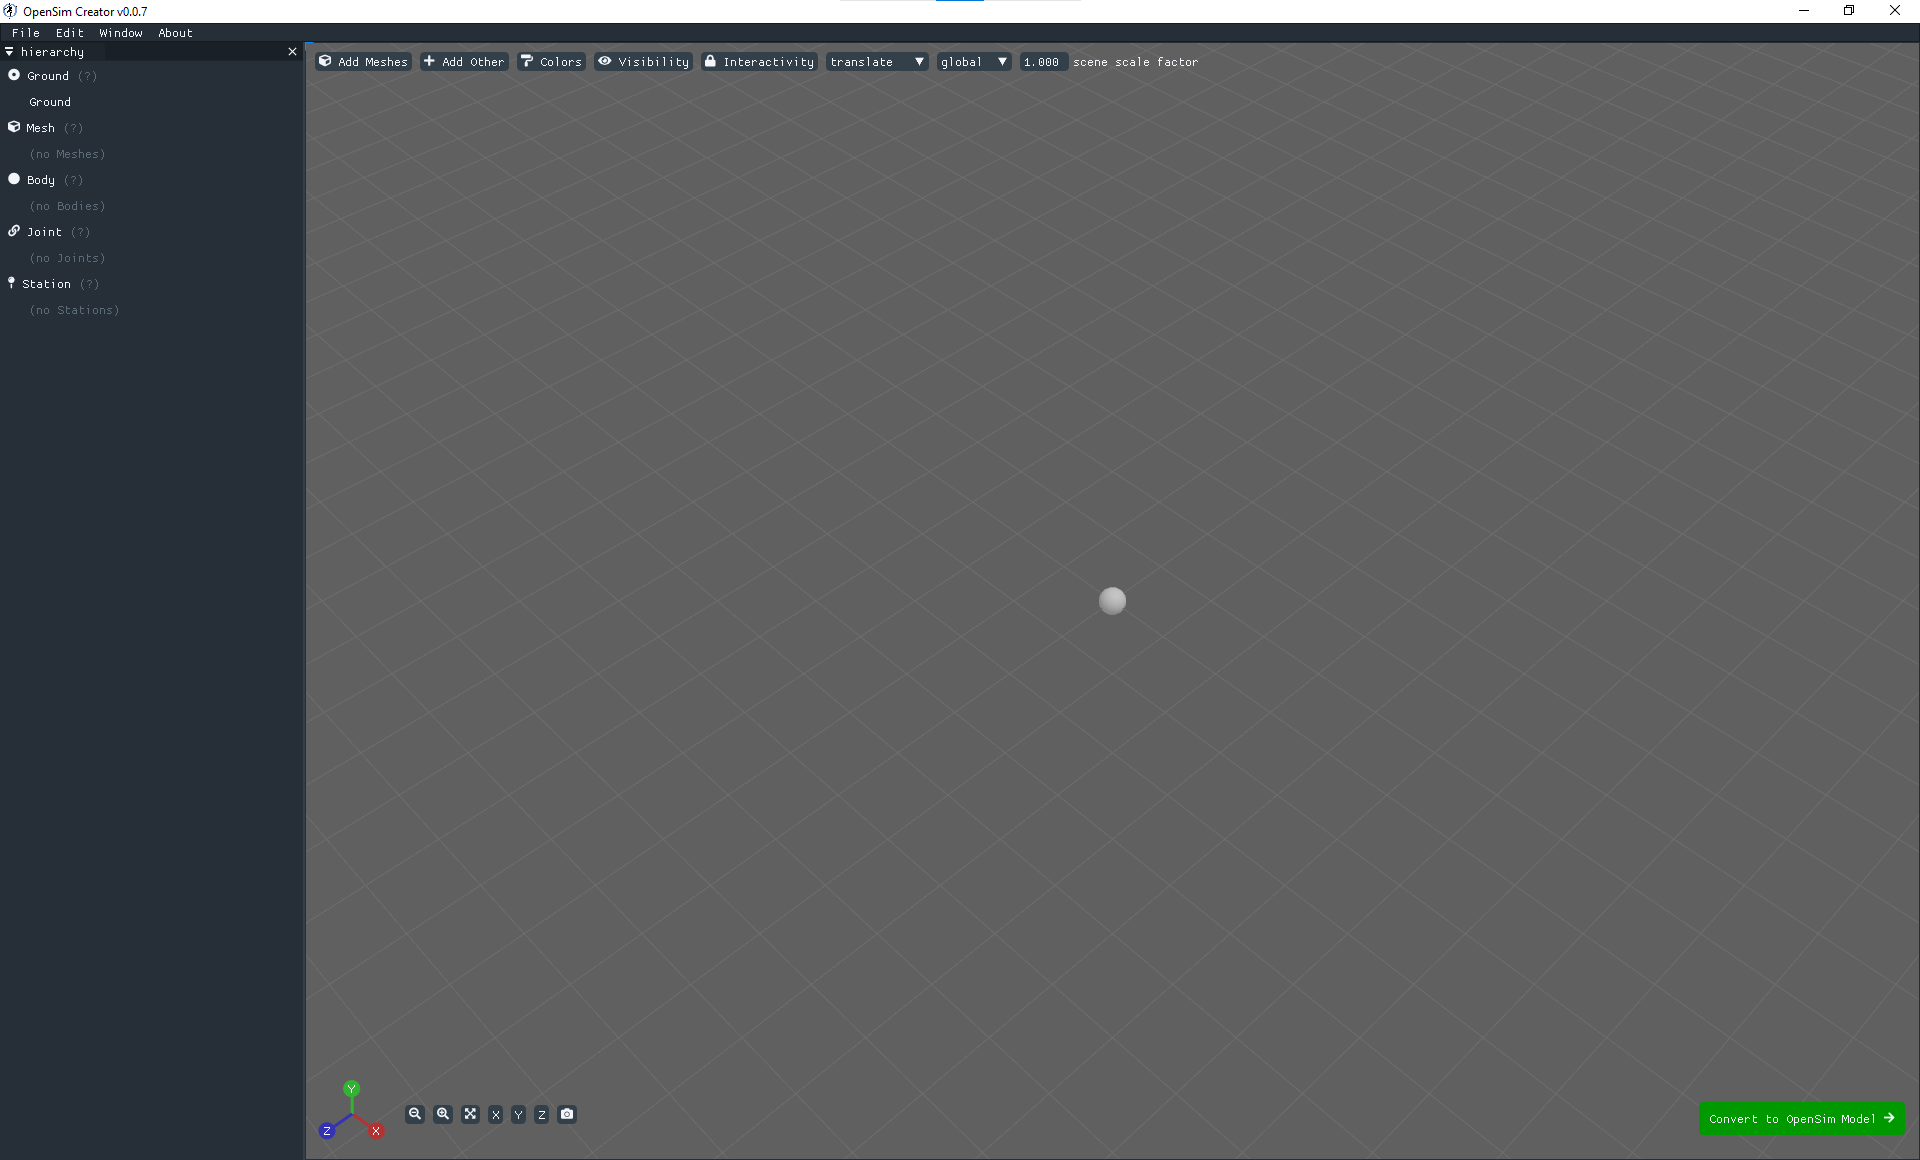
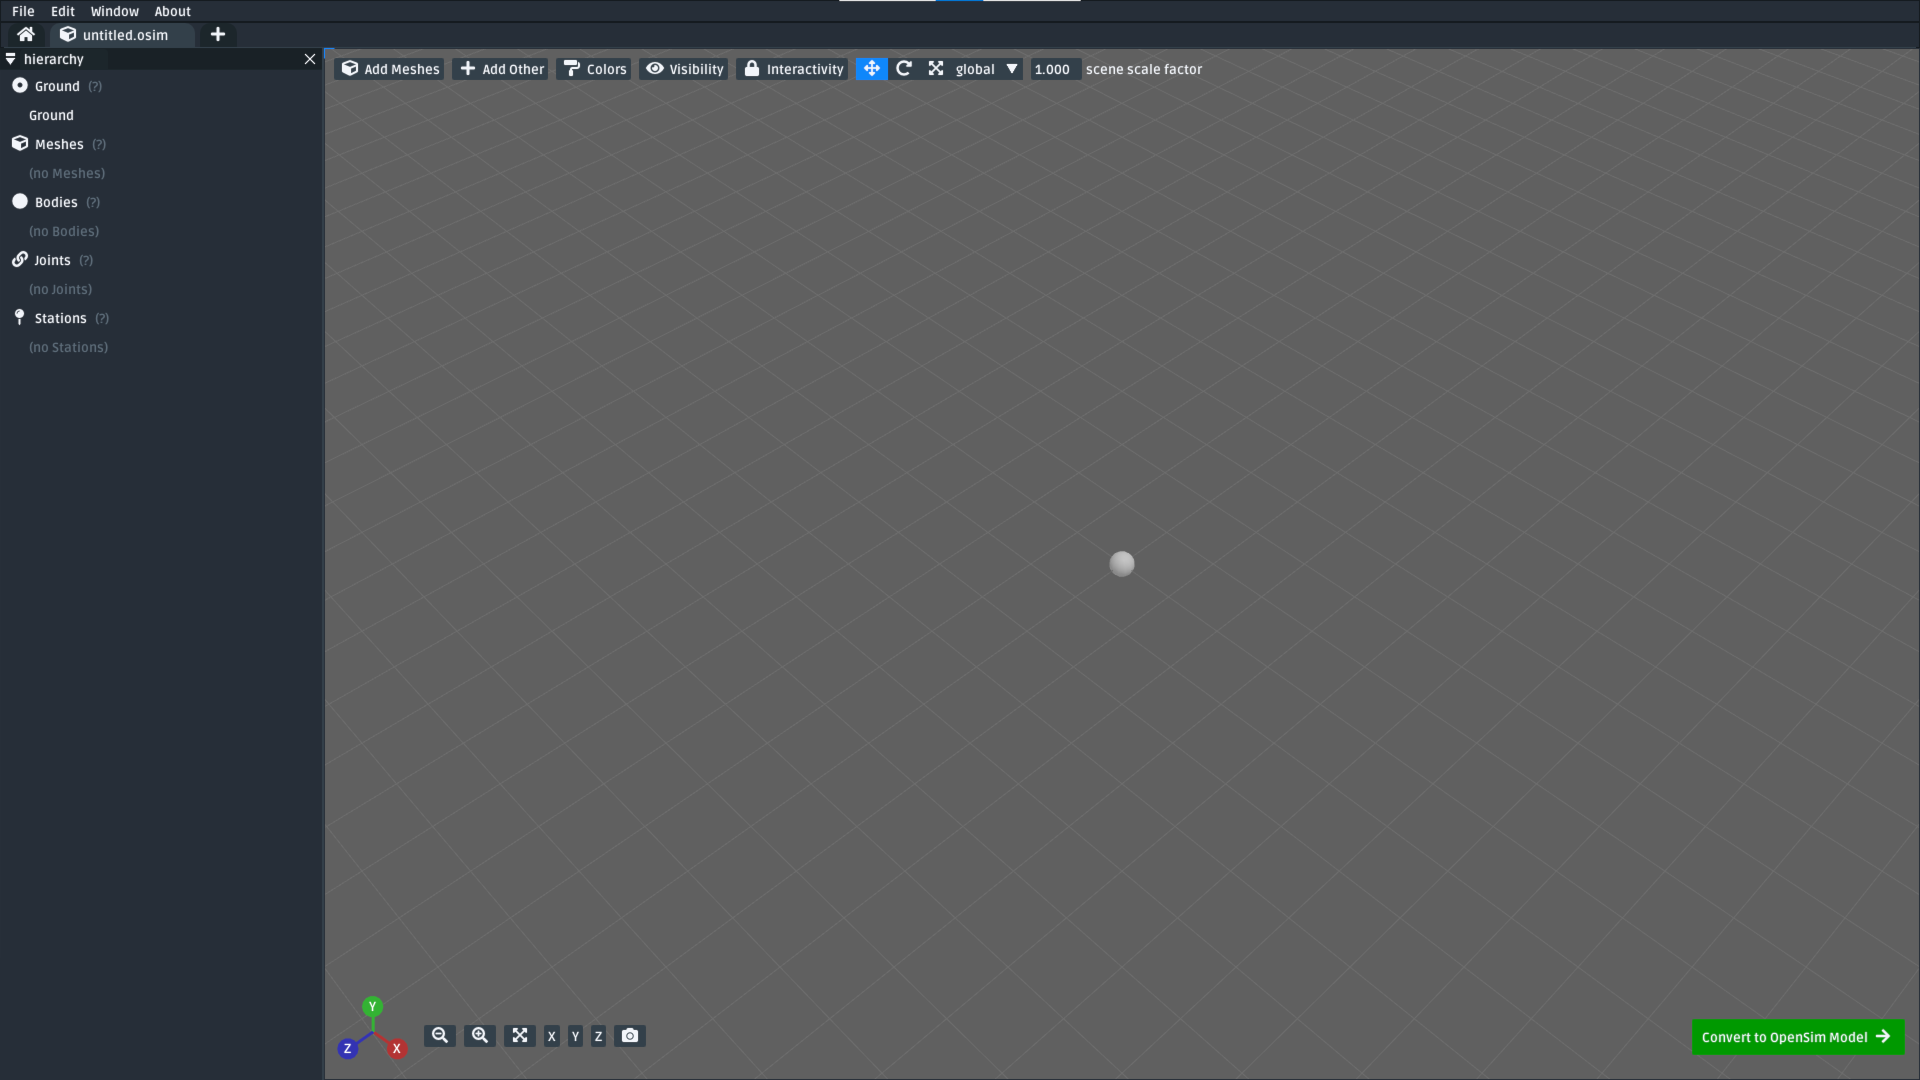
Updated tut3 for 0.2.0 (#249 #245)

Changed region(s): [[0.0, 0.0, 1.0, 1.0], [0.875, 0.9167, 1.0, 0.9778], [0.5625, 0.4889, 0.5938, 0.55]]

diff --git a/docs/source/tut3.rst b/docs/source/tut3.rst
@@ -8,11 +8,11 @@ In this tutorial, we will be using the mesh importer feature of OpenSim Creator 
 .. figure:: _static/tut3_result.png
     :width: 60%
 
-    The final model made in this tutorial, as-seen in the mesh importer screen. It is a double pendulum made from two bodies and two pin joints, with decorative meshes used for the heads + struts. (:download:`📥 download model <_static/tut3_final-model.osim>`)
+    The final model made in this tutorial, as-seen in the mesh importer. It is a double pendulum made from two bodies and two pin joints, with decorative meshes used for the heads + struts. (:download:`📥 download model <_static/tut3_final-model.osim>`)
 
 The mesh importer is "looser" than the main ``osim`` editor. This can make placing and orienting bodies/joints easier. However, its disadvantage is that it doesn't directly edit an ``osim`` file. Rather, it edits a simplified "model" that can be exported to the (more complex) ``osim`` format. For this reason, the mesh importer is recommended as a *first-step* utility that helps set up the top-level ``osim`` model in preparation for the ``osim`` editor to tackle the things like adding/editing forces, contact surfaces, etc. See :ref:`doc_meshimporterwizard` for an overview of the mesh importer's main features.
 
-Although the **model** we will make in this tutorial is effectively an extension of :ref:`tut1`, the **approach** used is different. Here, we will be using the mesh importer feature of OpenSim Creator to create the model, rather than building the model directly in the OpenSim model (``.osim``) editor screen.
+Although the **model** we will make in this tutorial is effectively an extension of :ref:`tut1`, the **approach** used is different. Here, we will be using the mesh importer feature of OpenSim Creator to create the model, rather than building the model directly in the OpenSim model (``.osim``) editor.
 
 This tutorial assumes the reader knows a little bit more about OpenSim, bodies, joints, etc. Because of that, each step here will require more--but hopefully, by now, familiar--actions. You're getting faster ⚡!
 
@@ -28,12 +28,12 @@ Topics Covered by this Tutorial
 Open the Mesh Importer
 ----------------------
 
-The mesh importer is a separate screen from the main ``osim`` editor. It creates/manipulates a free-form 3D scene that can be exported to an ``osim`` model. You can open the mesh importer either from the main menu (``File > Import Meshes``) or through the home screen:
+The mesh importer is a separate UI from the main ``osim`` editor. It creates/manipulates a free-form 3D scene that can be exported to an ``osim`` model. You can open the mesh importer from the home tab through either the main menu, the ``+`` button on the tab bar, or the green button in the center of the home tab:s
 
 .. figure:: _static/tut3_open-meshimporter.png
     :width: 60%
 
-    The mesh importer can be opened from the main home screen (highlighted above with a red box) or through the main menu (``File > Import Meshes``).
+    The mesh importer can be opened from the center of the home tab, the plus button, or the main menu.
 
 
 One opened, you will be greeted with a new mesh importer scene, which will be used for the next few steps of this tutorial:
@@ -41,7 +41,7 @@ One opened, you will be greeted with a new mesh importer scene, which will be us
 .. figure:: _static/tut3_opened-meshimporter.png
     :width: 60%
 
-    The mesh importer screen, which initially loads with a blank scene that's ready for your masterpiece 🎨. The majority of this tutorial is carried out through this screen.
+    The mesh importer, which initially loads with a blank scene that's ready for your masterpiece 🎨. The majority of this tutorial is carried out through the mesh importer.
 
 
 Add Bodies & PinJoints
@@ -98,12 +98,12 @@ The above steps set up all the bodies + joints in the model. You should have som
 Convert the scene to an osim (for testing)
 ~~~~~~~~~~~~~~~~~~~~~~~~~~~~~~~~~~~~~~~~~~
 
-Next, you will (temporarily) convert the mesh importer scene into an OpenSim model (``osim``) so that you can test whether your model is correct. Conversion is a one-way process, but your progress in the mesh importer will be **not** be lost. Re-opening the mesh importer will "remember" your scene.
+Next, you will temporarily convert the mesh importer scene into an OpenSim model (``osim``) so that you can test whether your model is correct. Conversion is a one-way process, but your progress in the mesh importer will be **not** be lost.
 
 To convert the mesh importer scene into an ``osim`` (for testing), you will need to:
 
 * **Convert your scene into an OpenSim model**. Click the ``Convert to OpenSim Model``. This will convert your scene to an ``osim`` and open it in the ``osim`` editor that we used in previous tutorials. You can then see how the free-form scene was converted into an OpenSim model.
-* **Simulate the model**. Adjust the pin joint coordinates slightly to start the pendulum off at an angle. Confirm that both bodies swing like a double pendulum. If they don't, reopen the mesh importer and start fixing things 🔧.
+* **Try simulating the todel**. Adjust the pin joint coordinates (``pendulum_head_to_ground_rz`` and ``pendulum_head_2_to_pendulum_head_rz``) to start the pendulum off at an angle. Start simulating the model (``Ctrl+R``) to see it swinging. Confirm that both bodies swing like a double pendulum. If they don't, reopen the mesh importer and start fixing things 🔧.
 * **Save the model as an .osim**. After conversion, you can then save your model to disk and use external tooling (e.g. XML editors, OpenSim GUI) to further modify it.
 
 
@@ -158,6 +158,7 @@ Attach a cube mesh between the top pendulum and the ceiling (a strut)
   * Combine approaches by changing the color of the meshes to be semi-transparent (see ``Colors`` menu) and disable their interactivity.
   * Initially import the mesh by attaching it to ground, move it into place, ``Reassign Connection`` to the ``pendulum_head`` body.
   * The "best" approach depends on what kind of model you are working on.
+
 * Once the mesh is attached, move it between the ``pendulum_head`` and the pin joint that's acting as the base (``pendulum_head_to_ground``)
 * Rename it to ``pendulum_head_strut_decoration``
 * Rescale (``S``) it to make a long, thin, pendulum strut (recommended: ``(0.2, 2.5, 0.2``)).
@@ -194,7 +195,7 @@ Now that we have created a fully modelled and decorated pendulum, we can export 
 
     A basic forward-dynamic simulation of the model can be ran through the UI by tilting the pendulum slightly and running a simulation. Output plots can be used to get basic information out of the model. (:download:`📥 download model <_static/tut3_final-model.osim>`)
 
-*Et voilà*, you have created a functioning OpenSim model by mostly using the free-form mesh importer screen and got some useful data out of it 🎉. You're getting good at this.
+*Et voilà*, you have created a functioning OpenSim model by mostly using the free-form mesh importer and got some useful data out of it 🎉. You're getting good at this.
 
 
 (Optional) Extra Exercises
